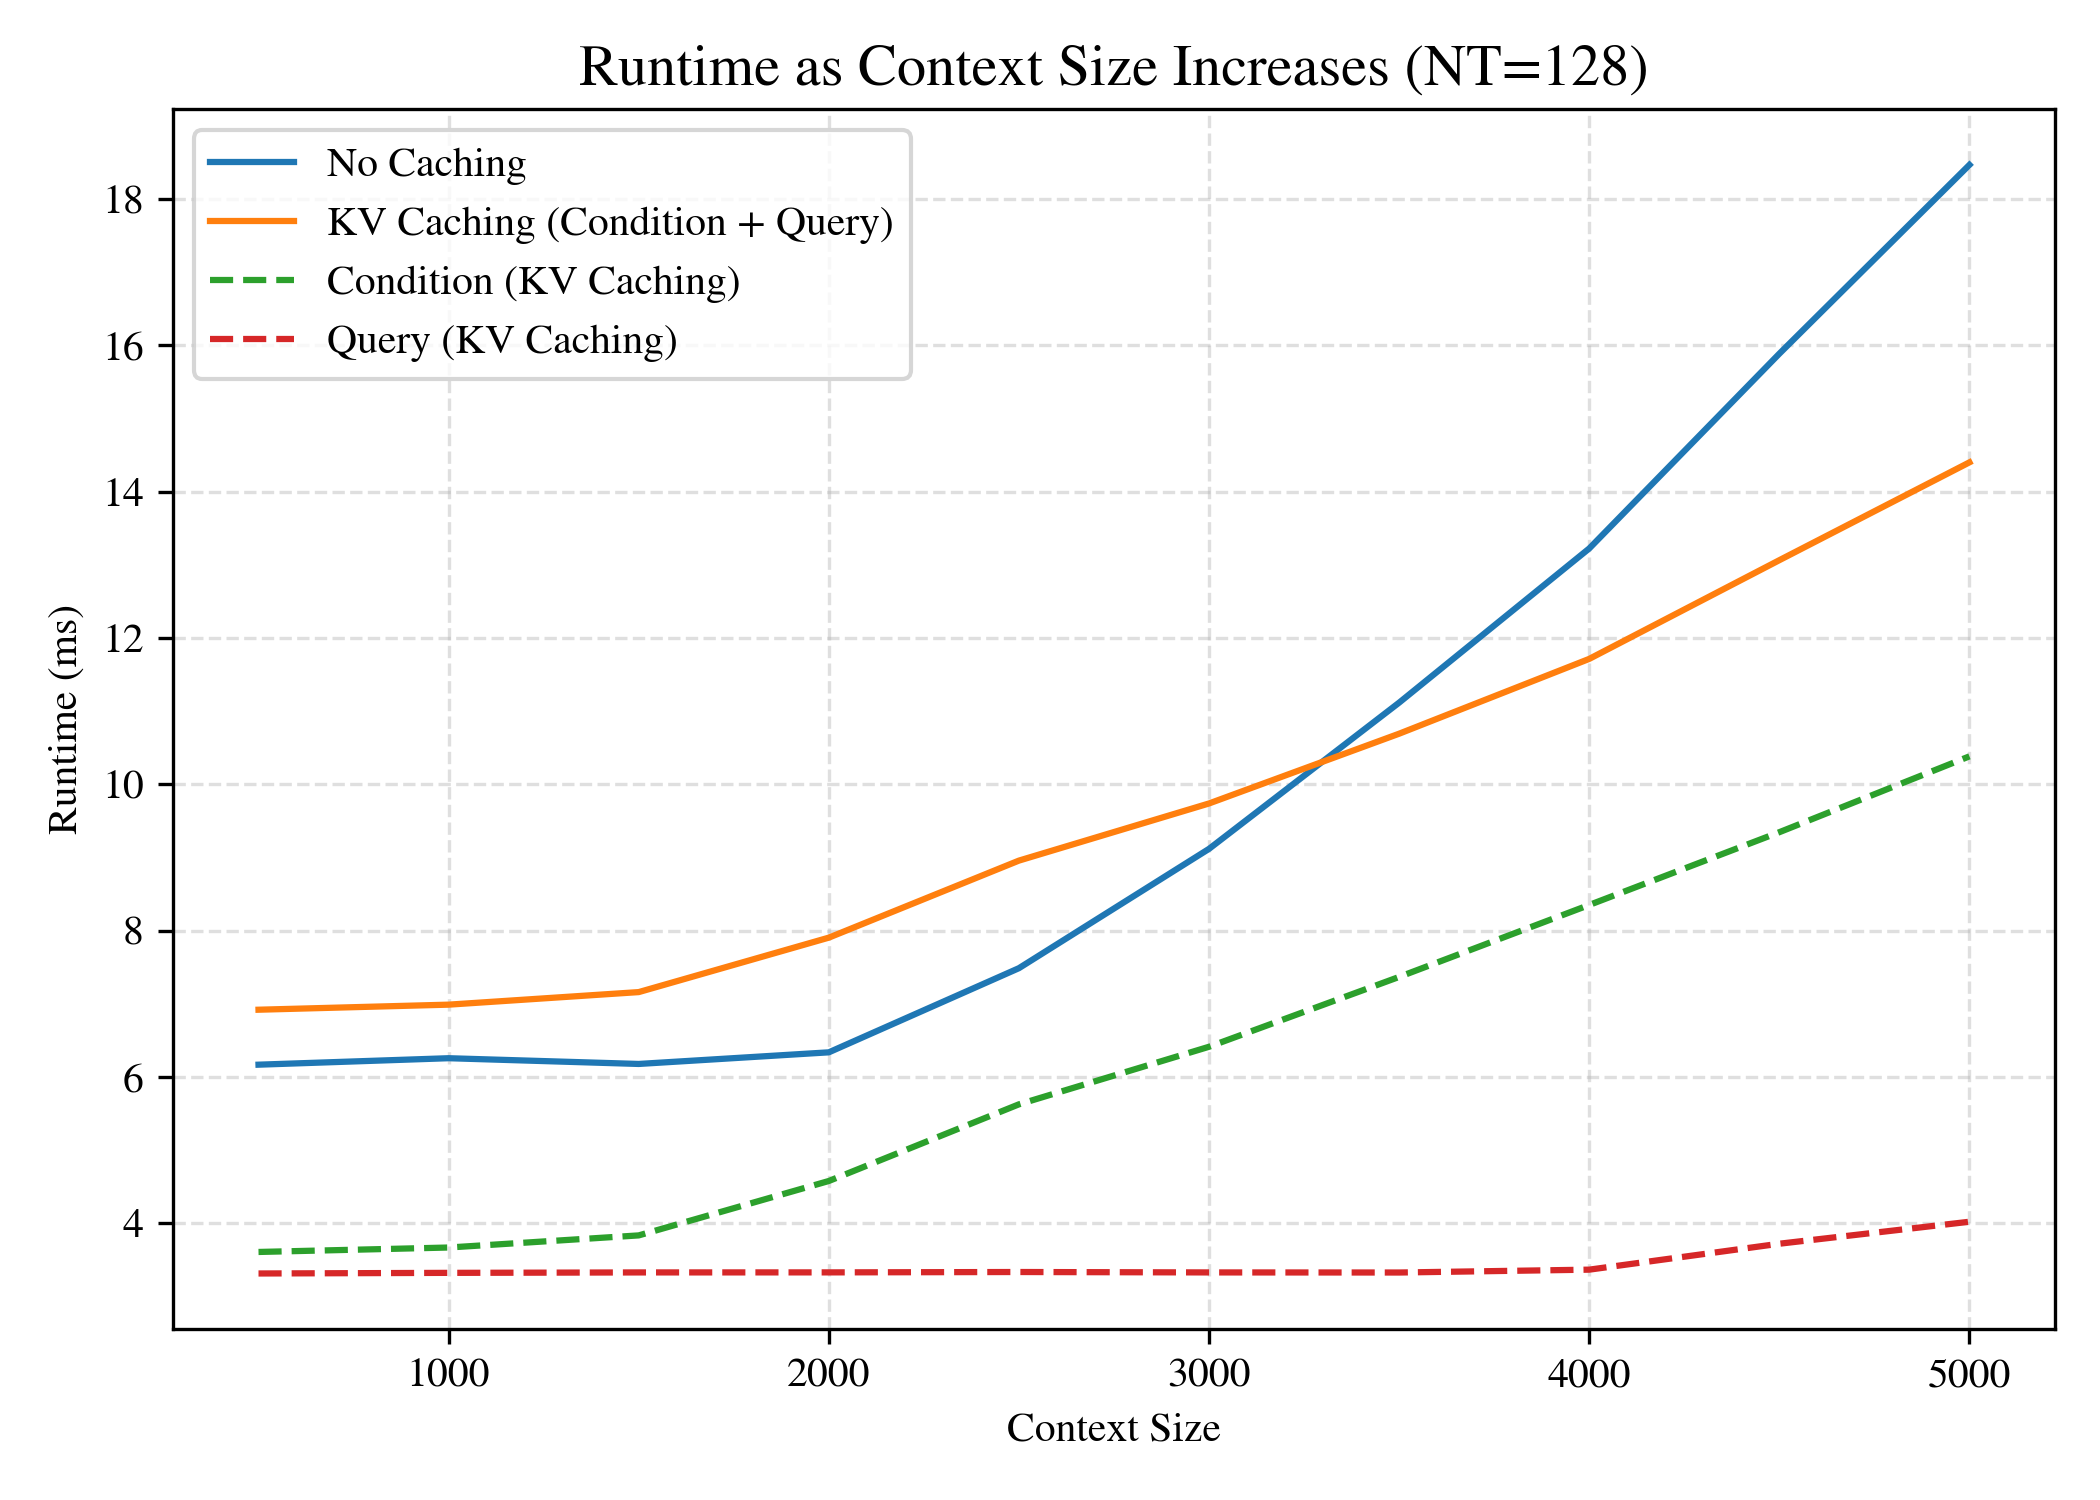
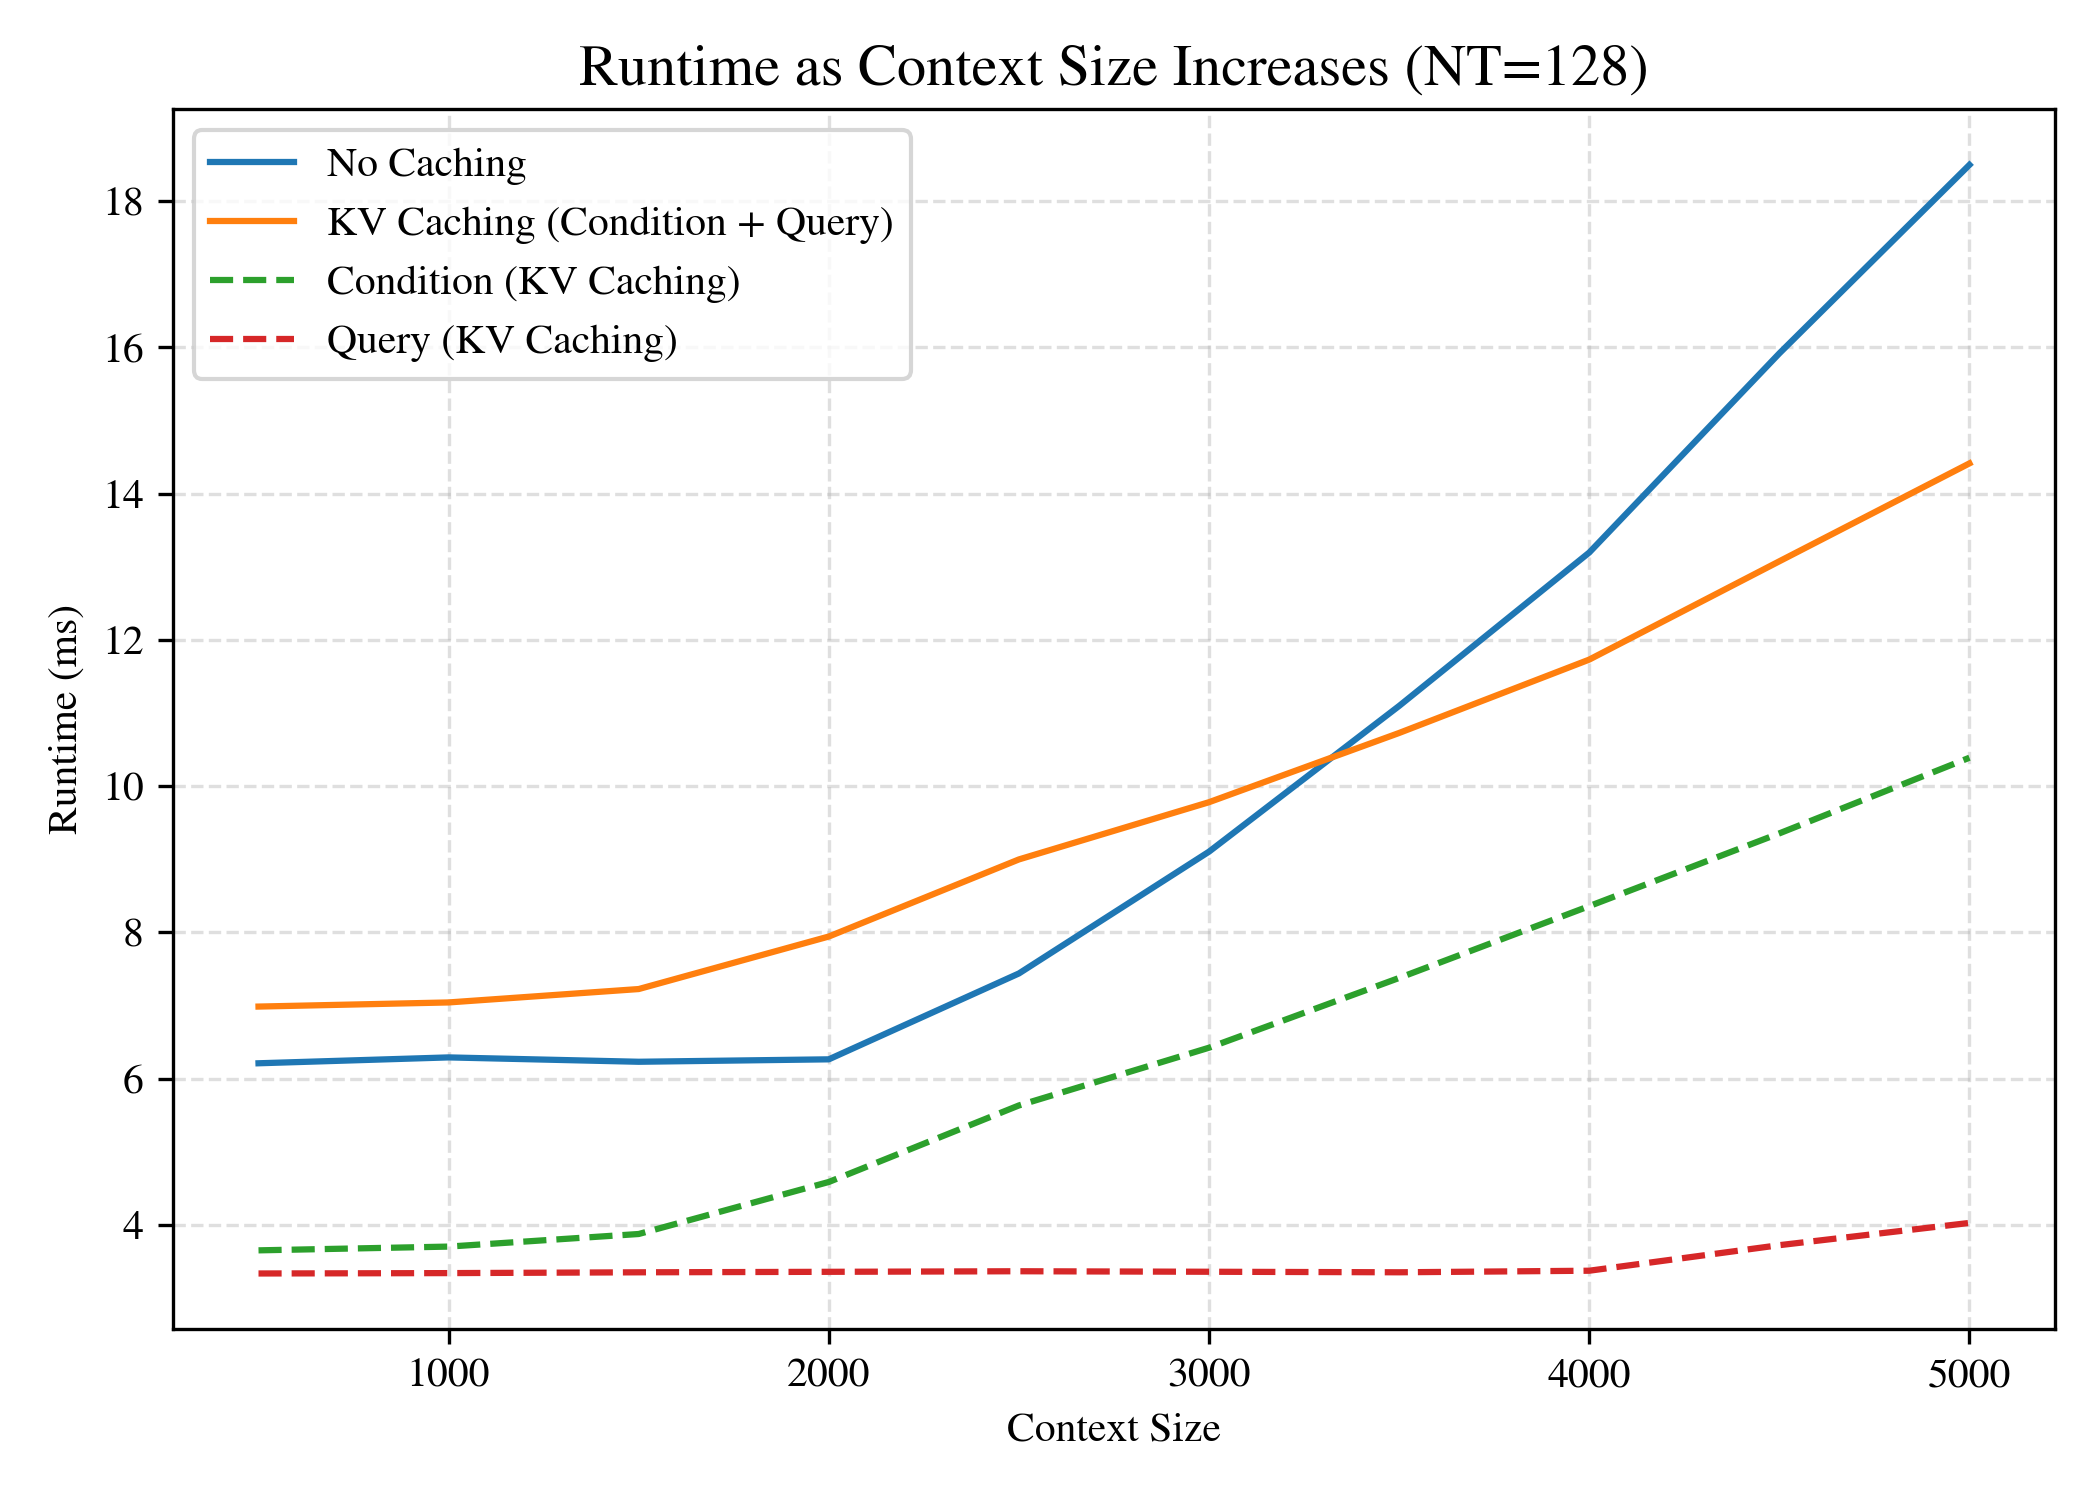
Clear mem plots

diff --git a/experiments/kv_cache_plots.py b/experiments/kv_cache_plots.py
@@ -62,9 +62,9 @@ def measure_condition_time_memory_kv():
     model.eval()
     # Dataset
     burn_in = 1 # Number of burn in runs to ignore
-    aggregate_over = 3 # Number of runs to aggregate data over
-    token_step = 500 # How many increments of tokens to go up in
-    max_nc, dx, dy, m = 5_000, 1, 1, 1
+    aggregate_over = 2 # Number of runs to aggregate data over
+    token_step = 250 # How many increments of tokens to go up in
+    max_nc, dx, dy, m = 50_000, 1, 1, 1
     max_high = 2
     xcs = (torch.rand((1, max_nc, dx), device=device) * max_high * 2) - max_high
     ycs = (torch.rand((1, max_nc, dy), device=device) * max_high * 2) - max_high
@@ -107,6 +107,8 @@ def measure_condition_time_memory_kv():
                 memory[write_j, ctx_inc] = peak_memory_mb
             ctx_inc += 1
     # Averages runtime and memory
+    runtime_std  = runtime.std(axis=0, ddof=1)
+    memory_std = memory.std(axis=0, ddof=1)
     runtime = np.mean(runtime, axis=0)
     memory = np.mean(memory, axis=0)
 
@@ -115,30 +117,79 @@ def measure_condition_time_memory_kv():
     ----------------------------
     Cumulative Context Size: {upper_ctxs}
     Runtime Incremental (ms): {runtime}
+    Runtime std: {runtime_std}
+    memory std: {memory_std}
     Memory Cumulative (Mb): {memory}
     """
     print(summary_block)
     with open('experiments/plot_results/kv/' + 'mem_run.txt', 'w') as file_object:
         file_object.write(summary_block)
+    confidence_bars = True
     # Plots runtime
     fig, ax = plt.subplots(figsize=(7, 5))
     ax.plot(upper_ctxs, runtime)
+    if confidence_bars:
+        ci95 = 1.96 * runtime_std / np.sqrt(aggregate_over)
+        ax.fill_between(upper_ctxs,
+                        runtime - ci95,
+                        runtime + ci95,
+                        alpha=0.25,)
     ax.set_xlabel('Context Size')
     ax.set_ylabel('Runtime for Conditioning (ms)')
     ax.set_title(f'Runtime as Context Size Increases with KV-Caching (M={token_step})')
     ax.grid(True, linestyle='--', alpha=0.4)
     fig.tight_layout()
-    plt.savefig('experiments/plot_results/kv/time_vs_ctx.png', dpi=300)     
+    plt.savefig('experiments/plot_results/kv/time_vs_ctx.png', dpi=300)   
 
     # Plots cumulative memory 
     fig, ax = plt.subplots(figsize=(7, 5))
     ax.plot(upper_ctxs, memory)
+    if confidence_bars:
+        ci95 = 1.96 * memory_std / np.sqrt(aggregate_over)
+        ax.fill_between(upper_ctxs,
+                        memory - ci95,
+                        memory + ci95,
+                        alpha=0.25,)
     ax.set_xlabel('Context Size')
     ax.set_ylabel('Cumulative Memory Usage (MB)')
     ax.set_title('Memory Use with KV-Caching')
     ax.grid(True, linestyle='--', alpha=0.4)
     fig.tight_layout()
-    plt.savefig('experiments/plot_results/kv/memory_vs_ctx.png', dpi=300)      
+    plt.savefig('experiments/plot_results/kv/memory_vs_ctx.png', dpi=300) 
+
+    # Plots both on same grid
+    COL_RT, COL_MEM = 'C0', 'C3'  # Colour palleter
+    fig, ax_rt = plt.subplots(figsize=(7, 5))
+    ax_mem = ax_rt.twinx()
+    # Runtime
+    ax_rt.plot(upper_ctxs, runtime, color=COL_RT, label="Runtime")
+    if confidence_bars:
+        ci95 = 1.96 * runtime_std / np.sqrt(aggregate_over)
+        ax_rt.fill_between(upper_ctxs,
+                        runtime - ci95,
+                        runtime + ci95,
+                        alpha=0.25,color=COL_RT,)
+    ax_rt.set_xlabel('Context Size')
+    ax_rt.set_ylabel('Runtime for Conditioning (ms)', color=COL_RT)
+    ax_rt.tick_params(axis='y', colors=COL_RT)
+    ax_rt.grid(True, linestyle='--', alpha=0.4)
+    # Memory
+    ax_mem.plot(upper_ctxs, memory, color=COL_MEM, label="Memory")
+    if confidence_bars:
+        ci95 = 1.96 * memory_std / np.sqrt(aggregate_over)
+        ax_mem.fill_between(upper_ctxs,
+                        memory - ci95,
+                        memory + ci95,
+                        alpha=0.25,color=COL_MEM)
+    ax_mem.set_ylabel('Cumulative Memory Usage (MB)', color=COL_MEM)
+    ax_mem.tick_params(axis='y', colors=COL_MEM)
+    #Other details
+    lines  = ax_rt.get_lines() + ax_mem.get_lines()
+    labels = [l.get_label() for l in lines]
+    ax_rt.legend(lines, labels)
+    fig.suptitle(f'KV-Cache Scaling (M={token_step})', fontsize=14)
+    fig.tight_layout()
+    fig.savefig('experiments/plot_results/kv/runtime_memory_combined.png',dpi=300,)
   
 
 # Measures the conditioning time for the model
@@ -326,9 +377,9 @@ def compare_kv_against_none(strategy="fixed", targets=128):
 
 if __name__ == "__main__":
     #test_kv_cache()
-    #measure_condition_time_memory_kv()
-    compare_kv_against_none(strategy="fixed", targets=128)
+    measure_condition_time_memory_kv()
     exit(0)
+    compare_kv_against_none(strategy="fixed", targets=128)
     compare_kv_against_none(strategy="scale")
     compare_kv_against_none(strategy="fixed", targets=512)
     compare_kv_against_none(strategy="fixed", targets=2048)
